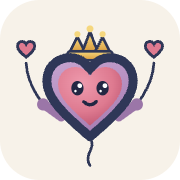
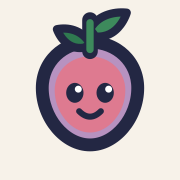
Glyno keeps her face, loses the heart and grows a sprout

Changed region(s): [[0.0833, 0.0278, 0.9167, 0.9444]]

diff --git a/src/ui/components/Mascot3D.tsx b/src/ui/components/Mascot3D.tsx
@@ -2,8 +2,20 @@ import { useEffect, useRef } from 'react'
 import * as THREE from 'three'
 
 // Procedural Glyno, no external models: works offline.
-// Original design on paper: layered heart with a crown, little arms holding two
-// heart balloons on strings, and a string hanging from below.
+// The face is the one drawn on paper: big eyes with two highlights and a wide smile.
+// The body is rounded on purpose — a heart in a health app reads as blood pressure, and
+// the app already uses one for that — and what grows on its head is a sprout, not a crown:
+// a crown is the universal badge for "premium", which is the opposite of what Glyno is.
+
+function bodyShape(): THREE.Shape {
+  const s = new THREE.Shape()
+  s.moveTo(0, 1.135)
+  s.bezierCurveTo(0.62, 1.135, 1.02, 0.72, 1.02, 0.18)
+  s.bezierCurveTo(1.02, -0.62, 0.58, -1.135, 0, -1.135)
+  s.bezierCurveTo(-0.58, -1.135, -1.02, -0.62, -1.02, 0.18)
+  s.bezierCurveTo(-1.02, 0.72, -0.62, 1.135, 0, 1.135)
+  return s
+}
 
 function heartShape(): THREE.Shape {
   const s = new THREE.Shape()
@@ -15,11 +27,20 @@ function heartShape(): THREE.Shape {
   return s
 }
 
-/** the centered heart is ~2.27 tall; its tip sits at -1.135 * scale from the center */
-const HEART_HALF = 1.135
+/** a leaf pointing up and outwards; mirrored for the other side */
+function leafShape(): THREE.Shape {
+  const s = new THREE.Shape()
+  s.moveTo(0, 0)
+  s.bezierCurveTo(0.16, 0.26, 0.46, 0.44, 0.68, 0.36)
+  s.bezierCurveTo(0.6, 0.08, 0.3, -0.1, 0, 0)
+  return s
+}
 
-function heartMesh(scale: number, depth: number, material: THREE.Material): THREE.Mesh {
-  const geo = new THREE.ExtrudeGeometry(heartShape(), {
+/** every extruded shape here is 2.27 tall once centered: half of that is 1.135 */
+const HALF = 1.135
+
+function extrude(shape: THREE.Shape, scale: number, depth: number, material: THREE.Material): THREE.Mesh {
+  const geo = new THREE.ExtrudeGeometry(shape, {
     depth,
     bevelEnabled: true,
     bevelThickness: 0.16,
@@ -32,6 +53,9 @@ function heartMesh(scale: number, depth: number, material: THREE.Material): THRE
   mesh.scale.setScalar(scale)
   return mesh
 }
+
+const bodyMesh = (scale: number, depth: number, m: THREE.Material) => extrude(bodyShape(), scale, depth, m)
+const heartMesh = (scale: number, depth: number, m: THREE.Material) => extrude(heartShape(), scale, depth, m)
 
 export function Mascot3D({ size = 96 }: { size?: number }) {
   const ref = useRef<HTMLDivElement>(null)
@@ -64,8 +88,8 @@ export function Mascot3D({ size = 96 }: { size?: number }) {
     const rose = new THREE.MeshStandardMaterial({ color: '#DE7A90', roughness: 0.5 })
     const ink = new THREE.MeshStandardMaterial({ color: '#232743', roughness: 0.35 })
     const white = new THREE.MeshStandardMaterial({ color: '#FFFFFF', roughness: 0.25 })
-    const gold = new THREE.MeshStandardMaterial({ color: '#D99A3C', roughness: 0.4, metalness: 0.3 })
-    const goldLight = new THREE.MeshStandardMaterial({ color: '#F5D77E', roughness: 0.35, metalness: 0.3 })
+    const leaf = new THREE.MeshStandardMaterial({ color: '#3D8A5C', roughness: 0.5 })
+    const stem = new THREE.MeshStandardMaterial({ color: '#2F7A50', roughness: 0.5 })
 
     const glyno = new THREE.Group()
     glyno.scale.setScalar(0.82)
@@ -73,34 +97,29 @@ export function Mascot3D({ size = 96 }: { size?: number }) {
 
     // body: three concentric layers, as in the drawing
     const body = new THREE.Group()
-    body.add(heartMesh(1.2, 0.5, outline))
-    const mid = heartMesh(1.08, 0.56, lilac)
+    body.add(bodyMesh(1.2, 0.5, outline))
+    const mid = bodyMesh(1.08, 0.56, lilac)
     mid.position.z = 0.12
     body.add(mid)
-    const front = heartMesh(0.9, 0.6, rose)
+    const front = bodyMesh(0.9, 0.6, rose)
     front.position.z = 0.24
     body.add(front)
     glyno.add(body)
 
-    // crown RESTING on the lobes (they reach y≈1.31): nothing above can cover it,
-    // which was why it used to end up hidden between them
-    const crown = new THREE.Group()
-    crown.position.set(0, HEART_HALF * 1.2 - 0.06, 0.28)
-    crown.rotation.x = -0.16
-    crown.add(new THREE.Mesh(new THREE.CylinderGeometry(0.4, 0.44, 0.19, 26, 1, true), gold))
-    crown.add(new THREE.Mesh(new THREE.TorusGeometry(0.44, 0.032, 8, 26), gold))
-    for (let i = 0; i < 5; i++) {
-      const a = (-0.5 + i / 4) * Math.PI * 0.78
-      const x = Math.sin(a) * 0.42
-      const z = Math.cos(a) * 0.42
-      const tall = i === 2 ? 0.42 : 0.3
-      const spike = new THREE.Mesh(new THREE.ConeGeometry(0.09, tall, 8), gold)
-      spike.position.set(x, 0.1 + tall / 2, z)
-      const ball = new THREE.Mesh(new THREE.SphereGeometry(0.055, 12, 12), goldLight)
-      ball.position.set(x, 0.12 + tall, z)
-      crown.add(spike, ball)
+    // the sprout grows from the top of the head, tilted forward so it reads from the front
+    const sprout = new THREE.Group()
+    sprout.position.set(0, HALF * 1.2 - 0.08, 0.22)
+    sprout.rotation.x = -0.18
+    const stalk = new THREE.Mesh(new THREE.CapsuleGeometry(0.05, 0.46, 6, 12), stem)
+    stalk.position.y = 0.28
+    sprout.add(stalk)
+    for (const side of [1, -1]) {
+      const l = extrude(leafShape(), side === 1 ? 0.62 : 0.5, 0.09, leaf)
+      l.position.set(side * 0.26, side === 1 ? 0.56 : 0.42, 0)
+      l.rotation.set(0, 0, side === 1 ? 0.2 : Math.PI - 0.2)
+      sprout.add(l)
     }
-    glyno.add(crown)
+    glyno.add(sprout)
 
     // big eyes with two highlights, as originally drawn
     const eyes: THREE.Group[] = []
@@ -125,7 +144,7 @@ export function Mascot3D({ size = 96 }: { size?: number }) {
 
     // little arms with a hand each, and a balloon string comes out of each hand.
     // The shoulder sits low and the arm opens wide so the hand lands OUTSIDE the
-    // heart's silhouette (max half-width ≈ 1.36): inside it wouldn't be visible.
+    // body's silhouette (max half-width ≈ 1.22): inside it wouldn't be visible.
     const HAND_LEN = 0.62
     const balloons: THREE.Group[] = []
     for (const side of [-1, 1]) {
@@ -167,7 +186,7 @@ export function Mascot3D({ size = 96 }: { size?: number }) {
       knot.position.copy(end)
       // the heart hangs by its tip, which is where the string is tied
       const heart = heartMesh(0.3, 0.16, rose)
-      heart.position.set(end.x, end.y + HEART_HALF * 0.3, end.z)
+      heart.position.set(end.x, end.y + HALF * 0.3, end.z)
       balloon.add(knot, heart)
 
       balloons.push(balloon)
@@ -176,7 +195,7 @@ export function Mascot3D({ size = 96 }: { size?: number }) {
 
     // string hanging from below
     const tailCurve = new THREE.CubicBezierCurve3(
-      new THREE.Vector3(0.03, -HEART_HALF * 1.2 + 0.05, 0),
+      new THREE.Vector3(0.03, -HALF * 1.2 + 0.05, 0),
       new THREE.Vector3(0.3, -1.62, 0),
       new THREE.Vector3(-0.22, -1.78, 0),
       new THREE.Vector3(0.14, -2.02, 0),

diff --git a/src/ui/components/Mascot.tsx b/src/ui/components/Mascot.tsx
@@ -1,22 +1,23 @@
-/** Flat Glyno for small sizes (tab bar): heart with crown, no antennae */
+/** Flat Glyno for small sizes (tab bar): rounded body, sprout and face, nothing else */
 export function Mascot({ size = 56 }: { size?: number }) {
-  const heart = 'M50 78 C35 65 24 55 24 44 C24 35 30 29 38 29 C44 29 48 33 50 37 C52 33 56 29 62 29 C70 29 76 35 76 44 C76 55 65 65 50 78 Z'
+  const body = 'M50 24 C65 24 76 35 76 49 C76 65 64 80 50 80 C36 80 24 65 24 49 C24 35 35 24 50 24 Z'
   return (
     <svg width={size} height={size} viewBox="0 0 100 100" aria-label="Glyno" role="img">
-      <path
-        d="M40 31 L40 22 L44 26 L46.8 17 L50 22 L53.2 17 L56 26 L60 22 L60 31 Z"
-        fill="#D99A3C"
-        stroke="#2F3757"
-        strokeWidth="3"
-        strokeLinejoin="round"
-      />
-      <path d={heart} fill="#B792C0" stroke="#2F3757" strokeWidth="7" strokeLinejoin="round" />
-      <path d={heart} transform="translate(50 52) scale(0.72) translate(-50 -52)" fill="#DE7A90" />
-      <ellipse cx="43" cy="48" rx="3.6" ry="4.2" fill="#232743" />
-      <ellipse cx="57" cy="48" rx="3.6" ry="4.2" fill="#232743" />
-      <circle cx="44.4" cy="46.5" r="1.4" fill="#fff" />
-      <circle cx="58.4" cy="46.5" r="1.4" fill="#fff" />
-      <path d="M46 56 Q50 60 54 56" stroke="#232743" strokeWidth="2.2" fill="none" strokeLinecap="round" />
+      <path d={body} fill="#B792C0" stroke="#232743" strokeWidth="7" strokeLinejoin="round" />
+      <path d={body} transform="translate(50 54) scale(0.74) translate(-50 -54)" fill="#DE7A90" />
+      <g transform="translate(50 54) scale(1.18) translate(-50 -50)">
+        <ellipse cx="43" cy="48" rx="4" ry="4.6" fill="#232743" />
+        <ellipse cx="57" cy="48" rx="4" ry="4.6" fill="#232743" />
+        <circle cx="44.6" cy="46.3" r="1.6" fill="#fff" />
+        <circle cx="58.6" cy="46.3" r="1.6" fill="#fff" />
+        <path d="M45 56.5 Q50 61.5 55 56.5" stroke="#232743" strokeWidth="2.8" fill="none" strokeLinecap="round" />
+      </g>
+      {/* the sprout is drawn LAST: under the body it would be eaten by it, which is what
+          happened to the crown it replaces */}
+      <path d="M50 29 L50 12" stroke="#232743" strokeWidth="8.5" strokeLinecap="round" fill="none" />
+      <path d="M50 17 C56 6 70 8 70 8 C70 8 66 22 53 21 Z" fill="#3D8A5C" stroke="#232743" strokeWidth="4.5" strokeLinejoin="round" />
+      <path d="M50 25 C44 14 32 17 32 17 C32 17 36 29 47 27 Z" fill="#2F7A50" stroke="#232743" strokeWidth="4.5" strokeLinejoin="round" />
+      <path d="M50 28 L50 13.5" stroke="#3D8A5C" strokeWidth="4" strokeLinecap="round" fill="none" />
     </svg>
   )
 }

diff --git a/CHANGELOG.md b/CHANGELOG.md
@@ -20,6 +20,14 @@ Ajustes → «Acerca de Glyno».
   puerta para las apps web: llegará con la app nativa.
 - En Ajustes, la clave guardada se ve enmascarada, con botones para **comprobar que funciona**,
   cambiarla o quitarla.
+- **Glyno cambia de cuerpo (y de sombrero).** Su cara —los ojos grandes y la sonrisa que dibujó
+  una niña de 8 años— es exactamente la misma. Lo que cambia es el cuerpo, que era un corazón y
+  ahora es redondeado, y lo que le crece en la cabeza, que era una corona y ahora es un brote.
+  Dos motivos: un corazón en una app de salud se lee como tensión (y la app ya usa uno para eso),
+  y una corona es el icono universal de «premium», que es justo lo que Glyno no es. Un brote,
+  además, dice lo que sí hace: cuidarse poco a poco.
+  El icono de la app, el personaje pequeño de la barra de pestañas y el Glyno grande salen ahora
+  del **mismo dibujo**, que antes eran tres hechos por separado.
 - **El botiquín se puede rellenar con una foto.** En Ajustes → Botiquín, «📷 Leer mi medicación
   de una foto»: haces una foto a las cajas y Glyno saca el nombre, la dosis tal como está impresa
   y si es una pastilla, una insulina lenta o una rápida. **Nada se guarda sin que tú lo

diff --git a/CLAUDE.md b/CLAUDE.md
@@ -28,8 +28,12 @@ mascota 3D (Glyno) y valoraciones con IA (Gemini free tier). Objetivo: coste 0 r
 - Papel cálido `#F7F2E9`, tinta `#23271F`, verde `#3D6B4F`, ámbar `#96721B` (alta), rojo `#A63D2A` (baja).
 - Tipografías (fontsource, empaquetadas, sin CDN): **Lora** titulares, **Fraunces** SOLO numerales
   grandes (su J descendente parece deformada en titulares — ya mordimos esa piedra), **Inter** UI.
-- Glyno 3D: procedural con three.js en `src/components/Mascot3D.tsx` (pera + brazos + brote).
-  Saluda cada 5 s, parpadea, respira. Sin modelos externos.
+- Glyno 3D: procedural con three.js en `src/ui/components/Mascot3D.tsx` — cuerpo redondeado,
+  brazos con globos y **brote** en la cabeza. La CARA (ojos grandes con dos brillos y sonrisa
+  ancha) es la que dibujó la hija de Javier: no se toca. Late, parpadea y respira. Sin modelos
+  externos. NO usar un corazón como cuerpo (se lee como app de tensión, y la app ya usa 🫀 para
+  eso) ni una corona (es la insignia universal de «premium», justo lo contrario de Glyno).
+  El mismo dibujo alimenta `Mascot.tsx` (plano, barra de pestañas) y `public/icon.svg`.
 
 ## Líneas rojas de producto
 
